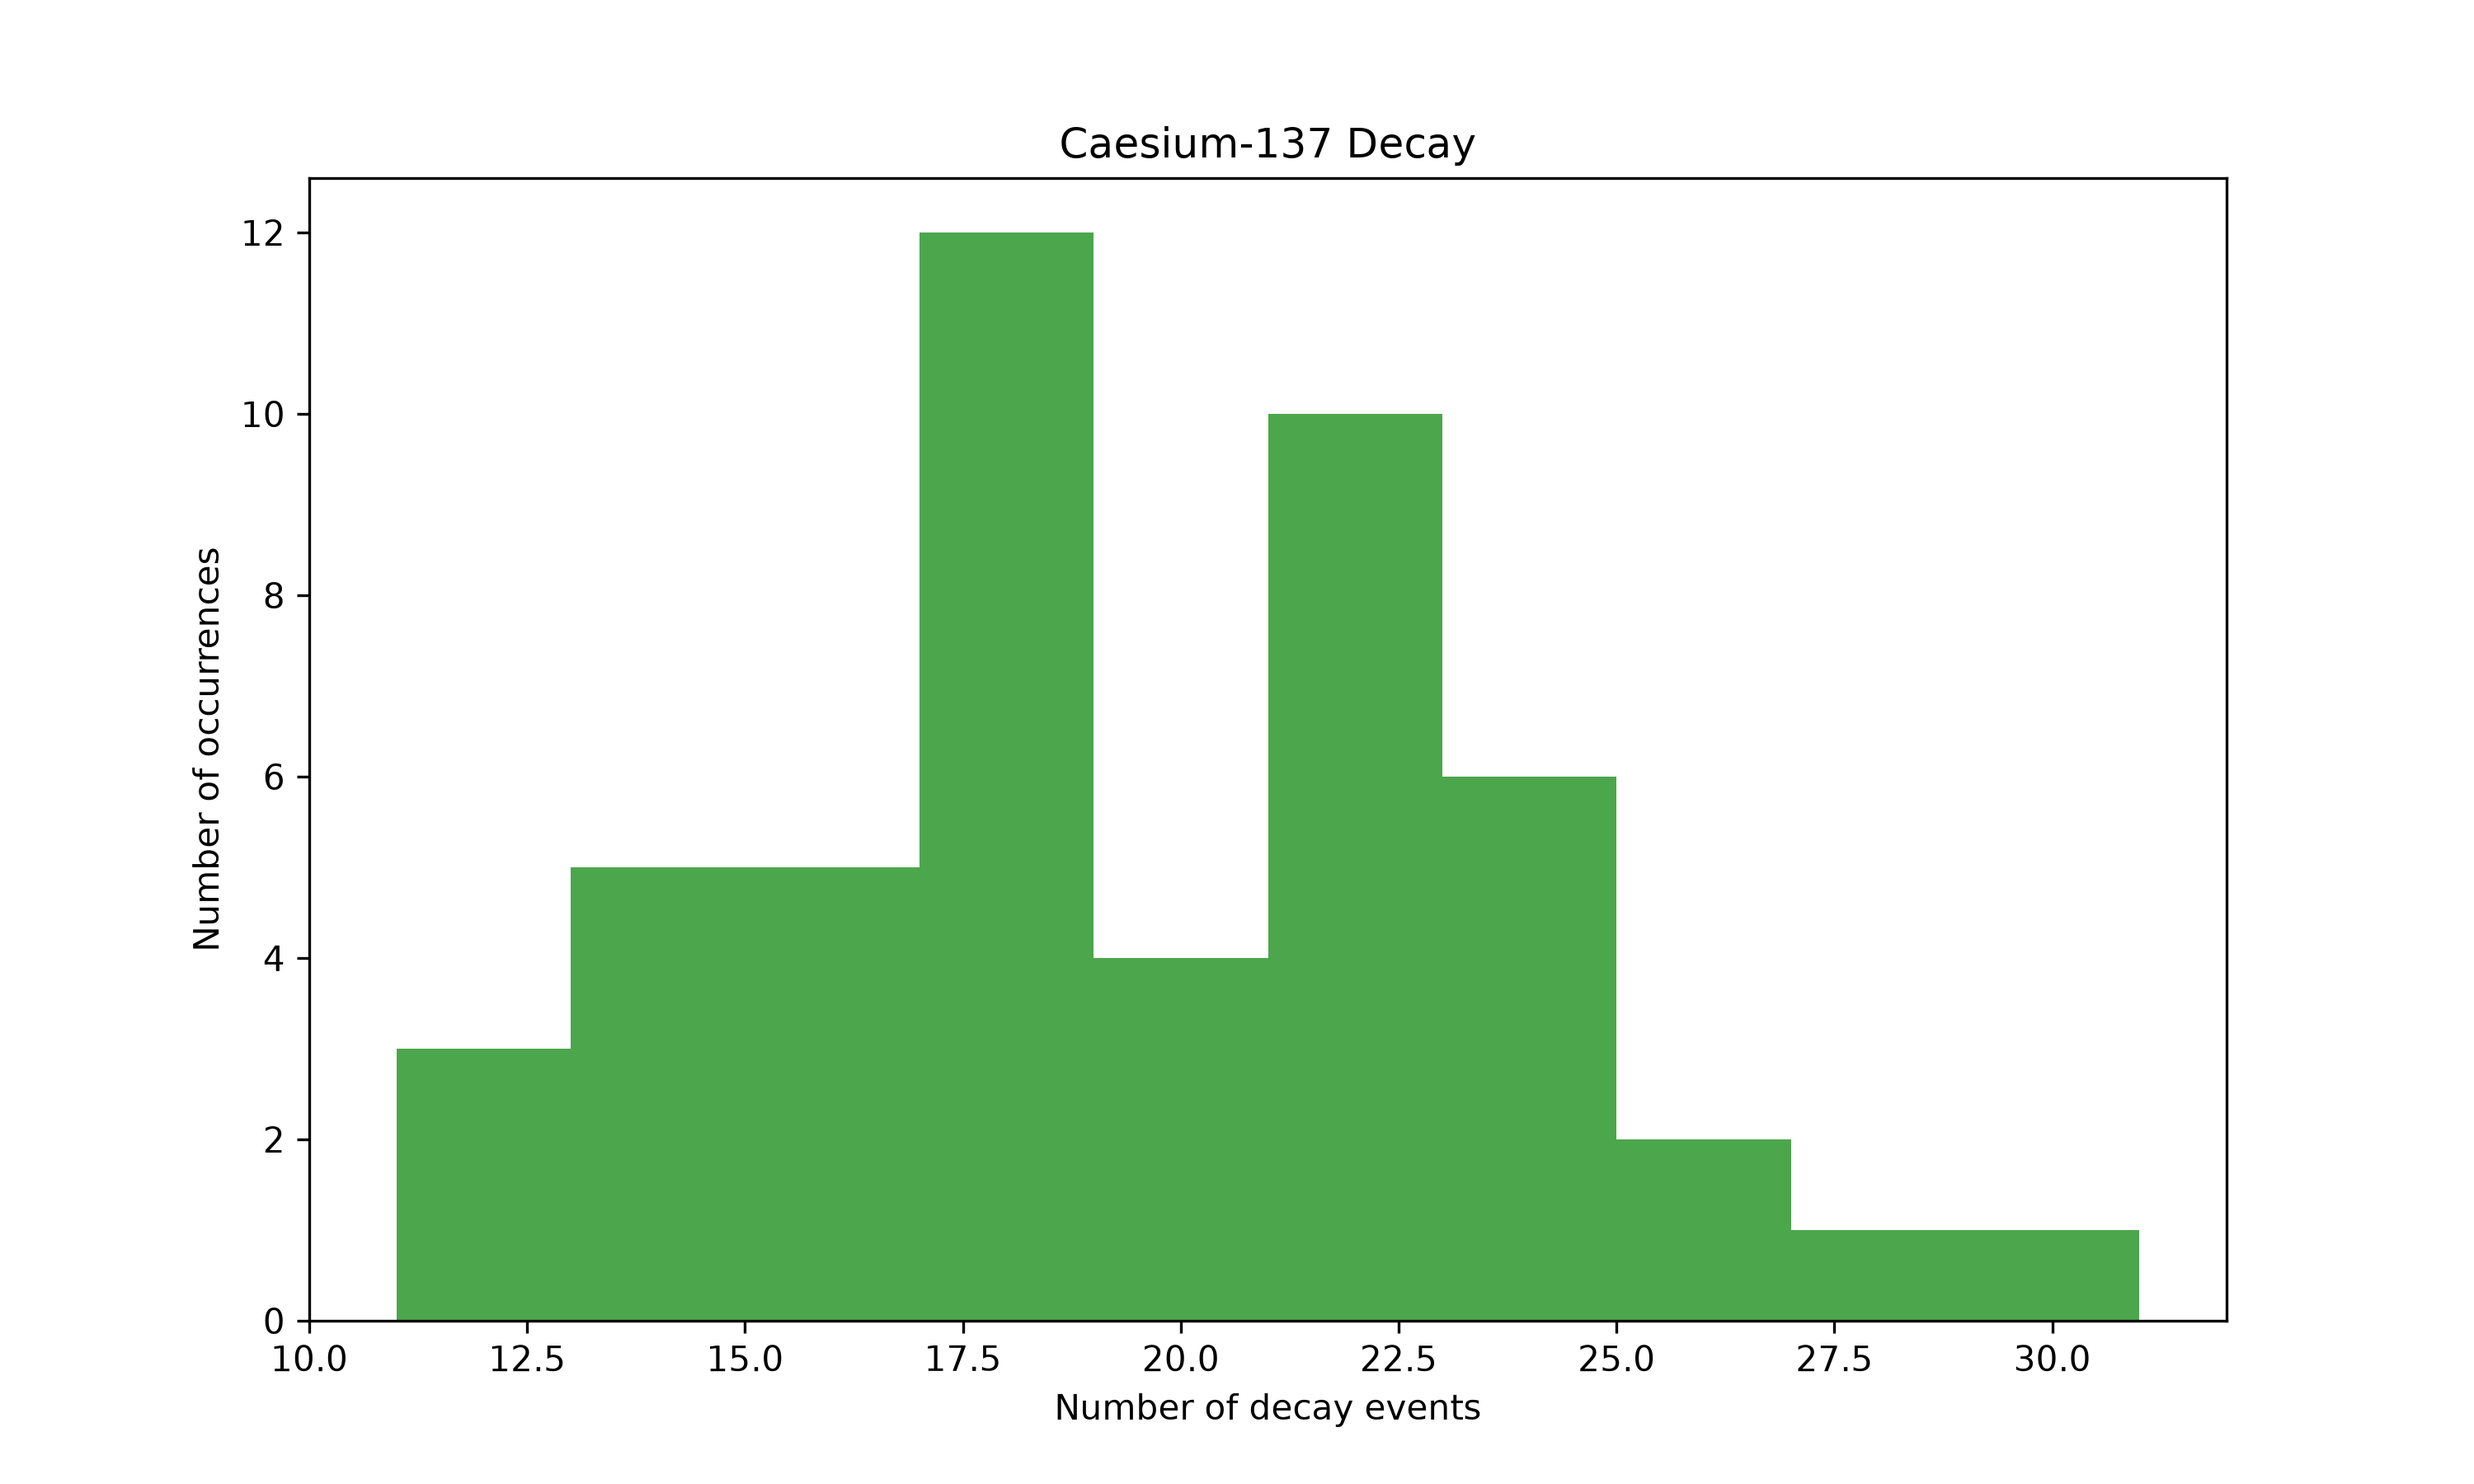
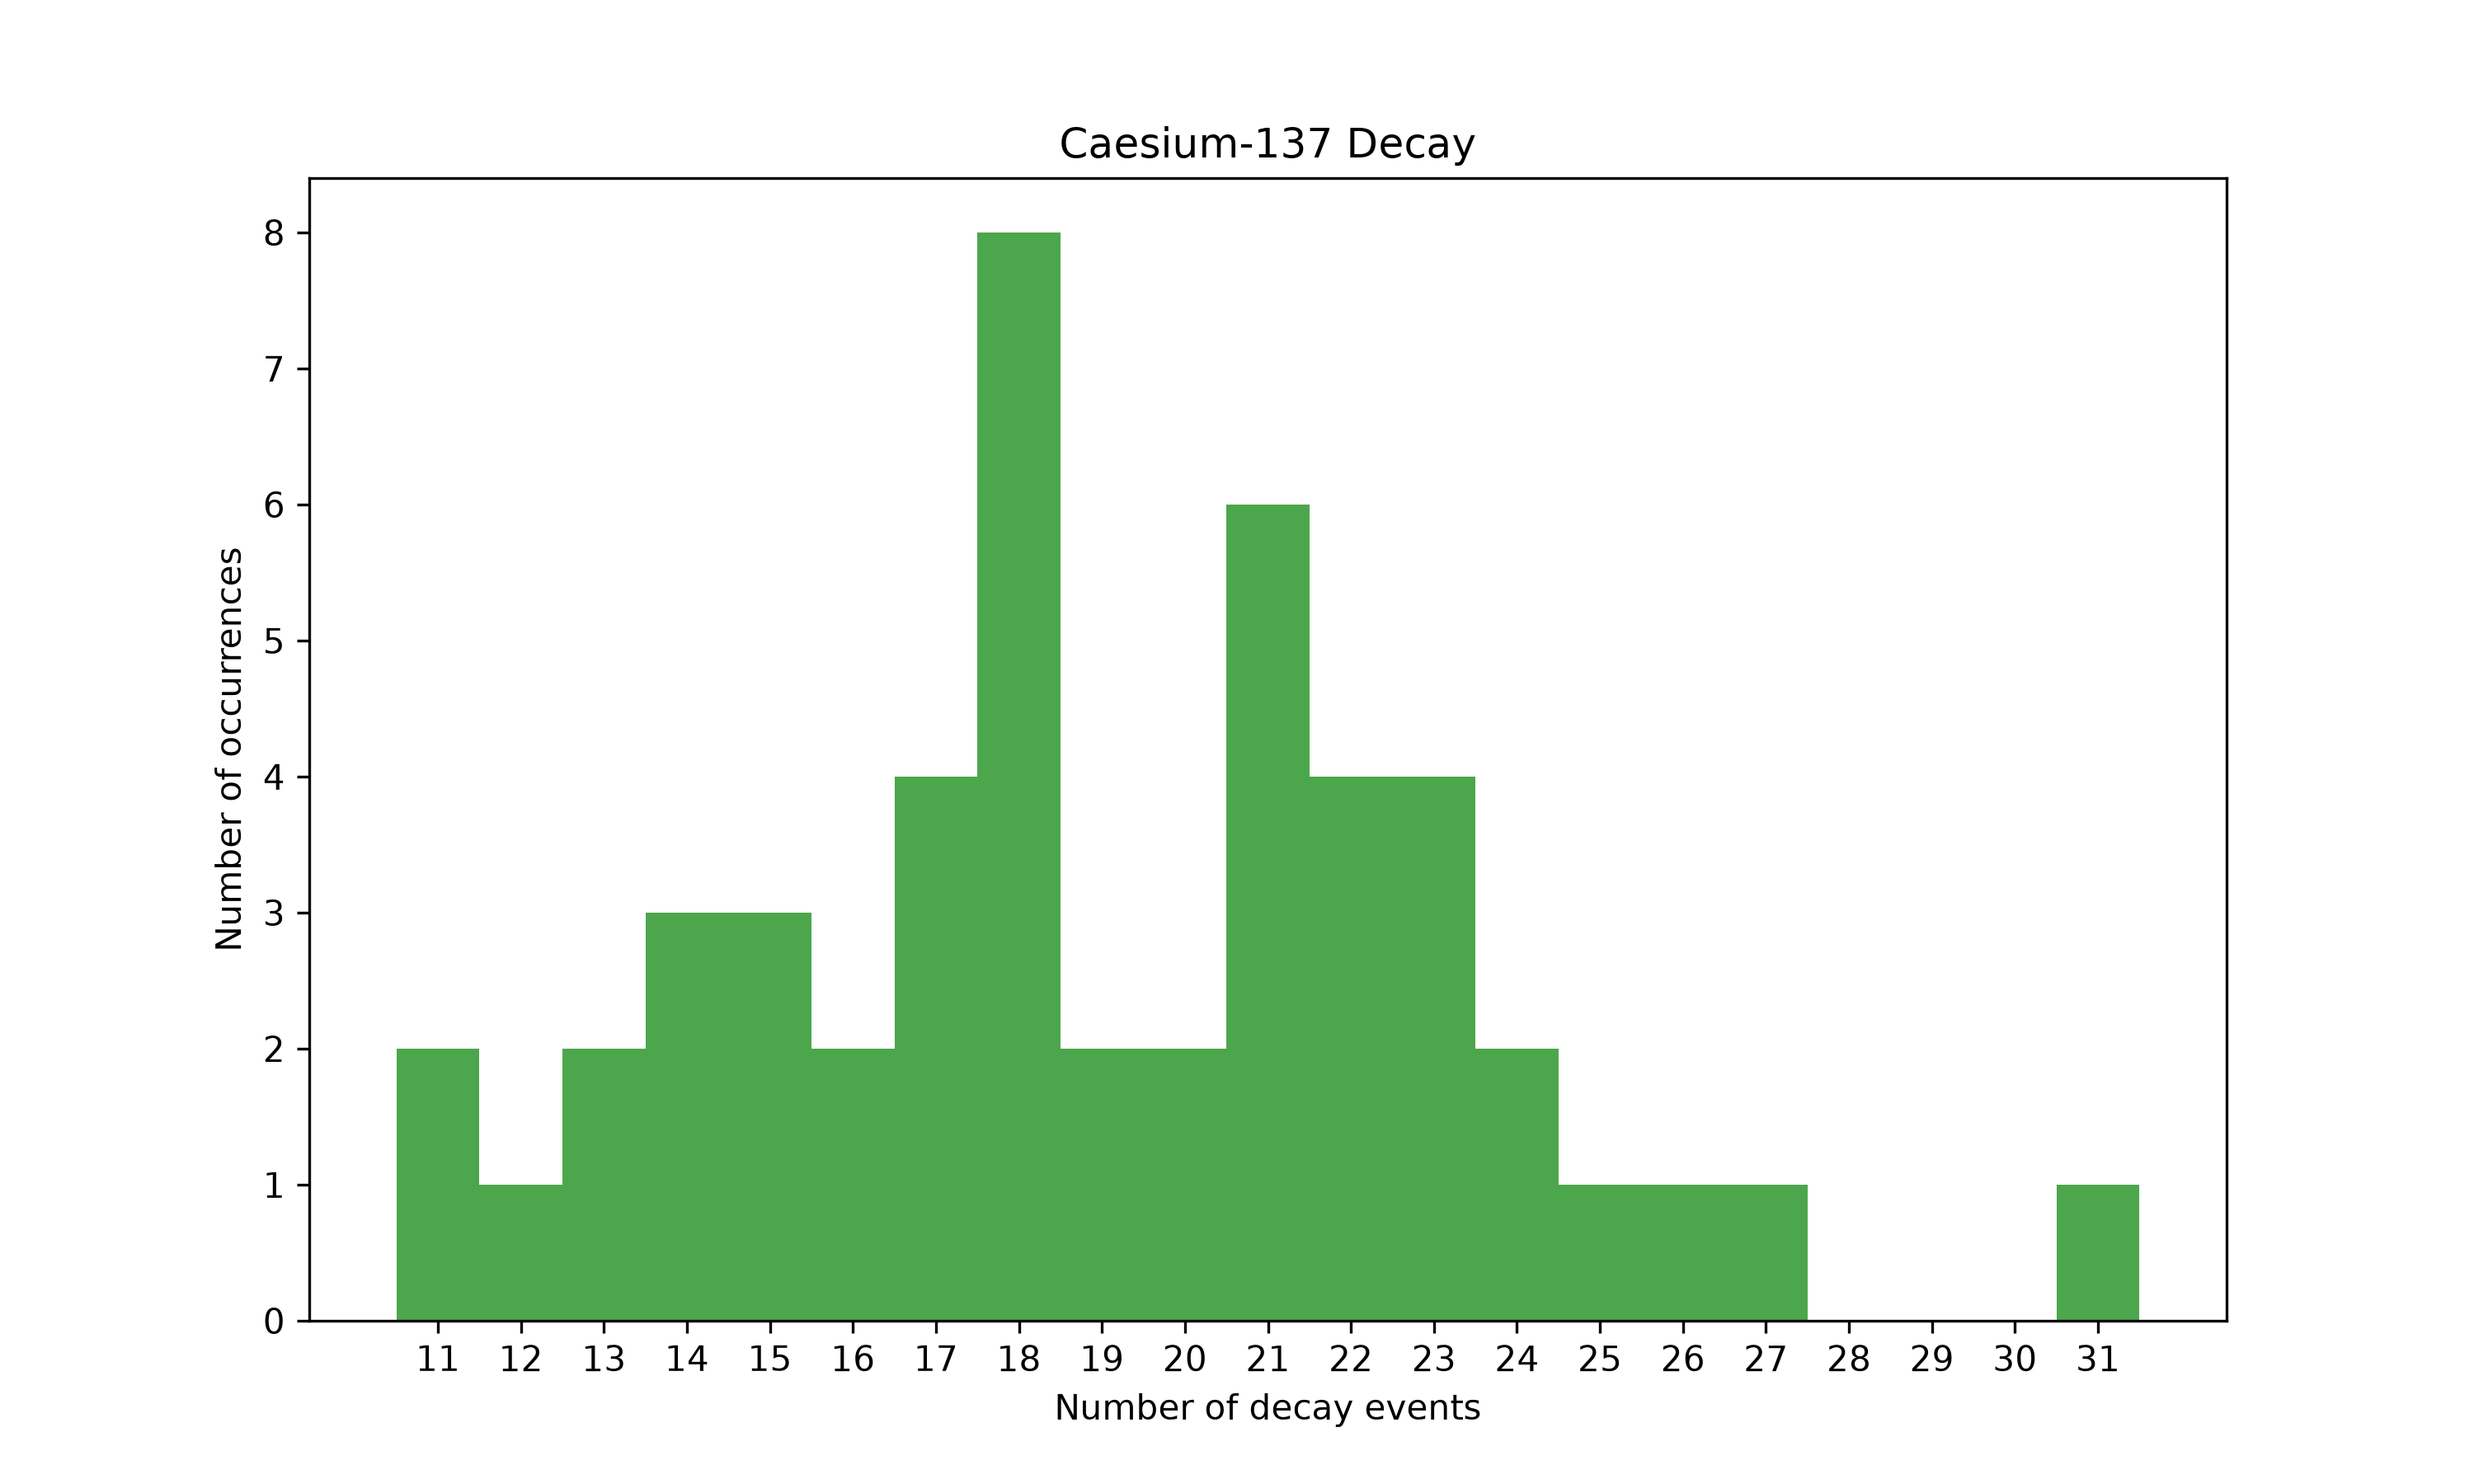
fixed graphs

diff --git a/main.py b/main.py
@@ -15,10 +15,12 @@ bsm = np.mean(base)
 bss = np.std(base)
 print(bsm,bss)
 
+base_edges = np.arange(base.min() - 0.5, base.max() + 1.5, 1)
 plt.figure(figsize=(10, 6))
-plt.hist(base, alpha=0.7, label='Base', color='blue')
+plt.hist(base, bins=base_edges, alpha=0.7, label='Base', color='blue')
 plt.xlabel('Number of decay events')
 plt.ylabel('Number of occurrences')
+plt.xticks(np.arange(base.min(), base.max() + 1, 1))
 plt.title('Baseline Radiation Level')
 plt.savefig('base.png', dpi=300)
 
@@ -27,9 +29,11 @@ csm = np.mean(caesium)
 css = np.std(caesium)
 print(csm,css)
 
+caesium_edges = np.arange(caesium.min() - 0.5, caesium.max() + 1.5, 1)
 plt.figure(figsize=(10, 6))
-plt.hist(caesium, alpha=0.7, label='Caesium-137', color='green')
+plt.hist(caesium, bins=caesium_edges, alpha=0.7, label='Caesium-137', color='green')
 plt.xlabel('Number of decay events')
+plt.xticks(np.arange(caesium.min(), caesium.max() + 1, 1))
 plt.ylabel('Number of occurrences')
 plt.title('Caesium-137 Decay')
 plt.savefig('caesium.png', dpi=300)
